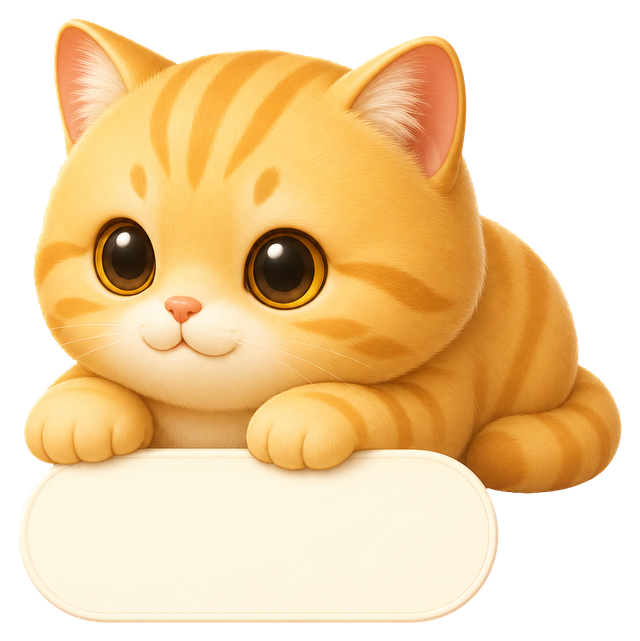
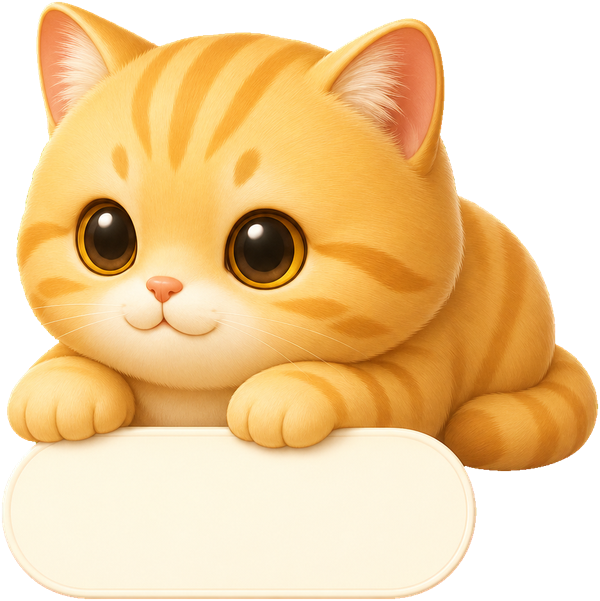
Refine desktop pet scale and transparency

diff --git a/apps/desktop/src/styles/pet.css b/apps/desktop/src/styles/pet.css
@@ -12,6 +12,7 @@
   width: 100%;
   height: 100%;
   place-items: center;
+  background: transparent;
   cursor: grab;
   user-select: none;
 }
@@ -67,10 +68,11 @@
 .pet-drag-region {
   position: relative;
   display: grid;
-  width: 184px;
-  height: 184px;
+  width: 162px;
+  height: 162px;
   padding: 0;
   place-items: center;
+  background: transparent;
 }
 
 .pet-drag-region:hover .cat {
@@ -84,18 +86,17 @@
 .cat-image {
   position: relative;
   display: block;
-  width: 188px;
+  width: 164px;
   height: auto;
   pointer-events: none;
   user-select: none;
-  filter: drop-shadow(0 14px 18px rgba(91, 55, 10, 0.2));
   animation: cat-breathe 3.8s ease-in-out infinite;
   transition: transform 160ms ease;
   z-index: 1;
 }
 
 .cat-image-summary {
-  width: 88px;
+  width: 78px;
 }
 
 .cat-image-menubar {
@@ -241,12 +242,12 @@
 .token-pill {
   position: absolute;
   right: auto;
-  bottom: 15px;
+  bottom: 13px;
   left: 50%;
   display: grid;
-  min-width: 98px;
-  min-height: 30px;
-  padding: 0 12px;
+  min-width: 82px;
+  min-height: 24px;
+  padding: 0 10px;
   place-items: center;
   border: 0;
   border-radius: 999px;
@@ -254,7 +255,7 @@
   background: transparent;
   box-shadow: none;
   cursor: pointer;
-  font-size: 20px;
+  font-size: 17px;
   font-weight: 800;
   line-height: 1;
   letter-spacing: 0;

diff --git a/apps/desktop/electron/main.ts b/apps/desktop/electron/main.ts
@@ -225,6 +225,7 @@ function createMenuBarWindow() {
     y,
     frame: false,
     transparent: true,
+    backgroundColor: "#00000000",
     resizable: false,
     hasShadow: true,
     alwaysOnTop: true,
@@ -414,12 +415,13 @@ function createPetWindow() {
   const { width } = primaryDisplay.workAreaSize;
 
   petWindow = new BrowserWindow({
-    width: 190,
-    height: 190,
-    x: Math.max(24, width - 240),
+    width: 165,
+    height: 165,
+    x: Math.max(24, width - 215),
     y: 120,
     frame: false,
     transparent: true,
+    backgroundColor: "#00000000",
     resizable: false,
     hasShadow: false,
     alwaysOnTop: settings.alwaysOnTop,
